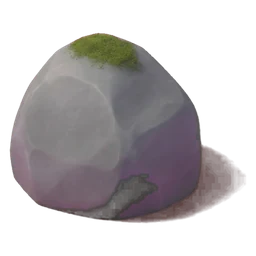
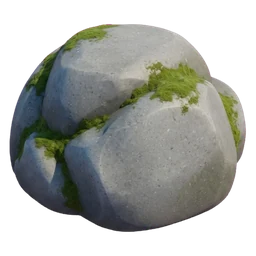
Paint rocks, crates, water, scout and gather sprites, mail, alliance and quest headers (#127)
* Paint rocks, crates, water tower, scout and gather march sprites, mail header

Claude-Session: https://claude.ai/code/session_01RrDtyUZUzqu6rAp9dA6JB4

* Paint alliance header

Claude-Session: https://claude.ai/code/session_01RrDtyUZUzqu6rAp9dA6JB4

* Paint quest header

Claude-Session: https://claude.ai/code/session_01RrDtyUZUzqu6rAp9dA6JB4

* Paint event header; file the scroll and compass image as the quest header

Claude-Session: https://claude.ai/code/session_01RrDtyUZUzqu6rAp9dA6JB4

---------

diff --git a/tools/ingest.py b/tools/ingest.py
@@ -129,6 +129,34 @@ def fill_holes(keyed, orig):
 def has_alpha(im):
     return im.mode in ('RGBA', 'LA') and im.getchannel('A').getextrema()[0] < 250
 
+def drop_specks(im, keep=0.05):
+    """Remove stray bits: any connected piece under `keep` of the biggest piece's area is cleared."""
+    sm = im.copy(); sm.thumbnail((256, 256)); W, H = sm.size; A_ = sm.getchannel('A').load(); seen = set(); comps = []
+    for y in range(H):
+        for x in range(W):
+            if A_[x, y] > 10 and (x, y) not in seen:
+                st = [(x, y)]; seen.add((x, y)); c = []
+                while st:
+                    px, py = st.pop(); c.append((px, py))
+                    for q in ((px+1, py), (px-1, py), (px, py+1), (px, py-1)):
+                        if 0 <= q[0] < W and 0 <= q[1] < H and q not in seen and A_[q] > 10: seen.add(q); st.append(q)
+                comps.append(c)
+    if len(comps) < 2: return im
+    big = max(len(c) for c in comps); mask = Image.new('L', (W, H), 255); md = mask.load()
+    for c in comps:
+        if len(c) < big * keep:
+            for q in c: md[q] = 0
+    mask = mask.resize(im.size, Image.NEAREST).filter(ImageFilter.MaxFilter(9)) if False else mask.resize(im.size, Image.NEAREST)
+    # grow the cleared area a little so the speck's soft edge goes too
+    inv = ImageChops.invert(mask).filter(ImageFilter.MaxFilter(9)); out = im.copy(); out.putalpha(ImageChops.multiply(im.getchannel('A'), ImageChops.invert(inv)))
+    return out
+
+def despill_magenta(im):
+    """Pull magenta spill out of lit edges: wherever blue is above green, blue drops to green, and red is capped near green."""
+    r, g, b, a = im.split()
+    b2 = ImageChops.darker(b, g); r2 = ImageChops.darker(r, g.point(lambda v: min(255, v + 14)))
+    return Image.merge('RGBA', (r2, g, b2, a))
+
 def process(path):
     k = key_of(path)
     if not k: return ('skip', os.path.basename(path), 'name is not in assets/catalog.json')
@@ -146,7 +174,9 @@ def process(path):
         if it['size'].startswith('1:1') and im.width != im.height:  # not square: centre-crop so it does not stretch
             n = min(im.size); l, t = (im.width - n) // 2, (im.height - n) // 2; im = im.crop((l, t, l + n, t + n)); note = 'centre-cropped to square'
     if (k.startswith('city_deco_tree') or k == 'city_deco_bush') and im.mode == 'RGBA': im = drop_grey_shadow(im, False, True); note += ', floor shadow cut'
-    elif k in ('city_deco_barrel', 'city_deco_flag') or k.startswith('mapmarch_') or k.endswith('_dust') and im.mode == 'RGBA': im = drop_grey_shadow(im, True, k in ('city_deco_barrel', 'city_deco_flag') or k.endswith('_dust')); note += ', floor shadow cut'
+    elif k in ('city_deco_barrel', 'city_deco_flag') or (k.startswith('mapmarch_') and k != 'mapmarch_gather') or k.endswith('_dust') and im.mode == 'RGBA': im = drop_grey_shadow(im, True, k in ('city_deco_barrel', 'city_deco_flag') or k.endswith('_dust')); note += ', floor shadow cut'
+    if k.startswith('city_deco_') and im.mode == 'RGBA': im = drop_specks(im)
+    if k in ('city_deco_crates', 'city_deco_water') and im.mode == 'RGBA': im = despill_magenta(im); note += ', magenta spill removed'
     if k in SHADOW and im.mode == 'RGBA': im = drop_shadow(im, SHADOW[k]); note += ', floor shadow cut'
     if it['transparent'] and k.startswith('city_ground'): im = trim(im)   # ground blobs are wide: keep their own aspect, the game stretches them over the island
     elif it['transparent'] and it['size'].startswith('1:1'): im = square(im)
